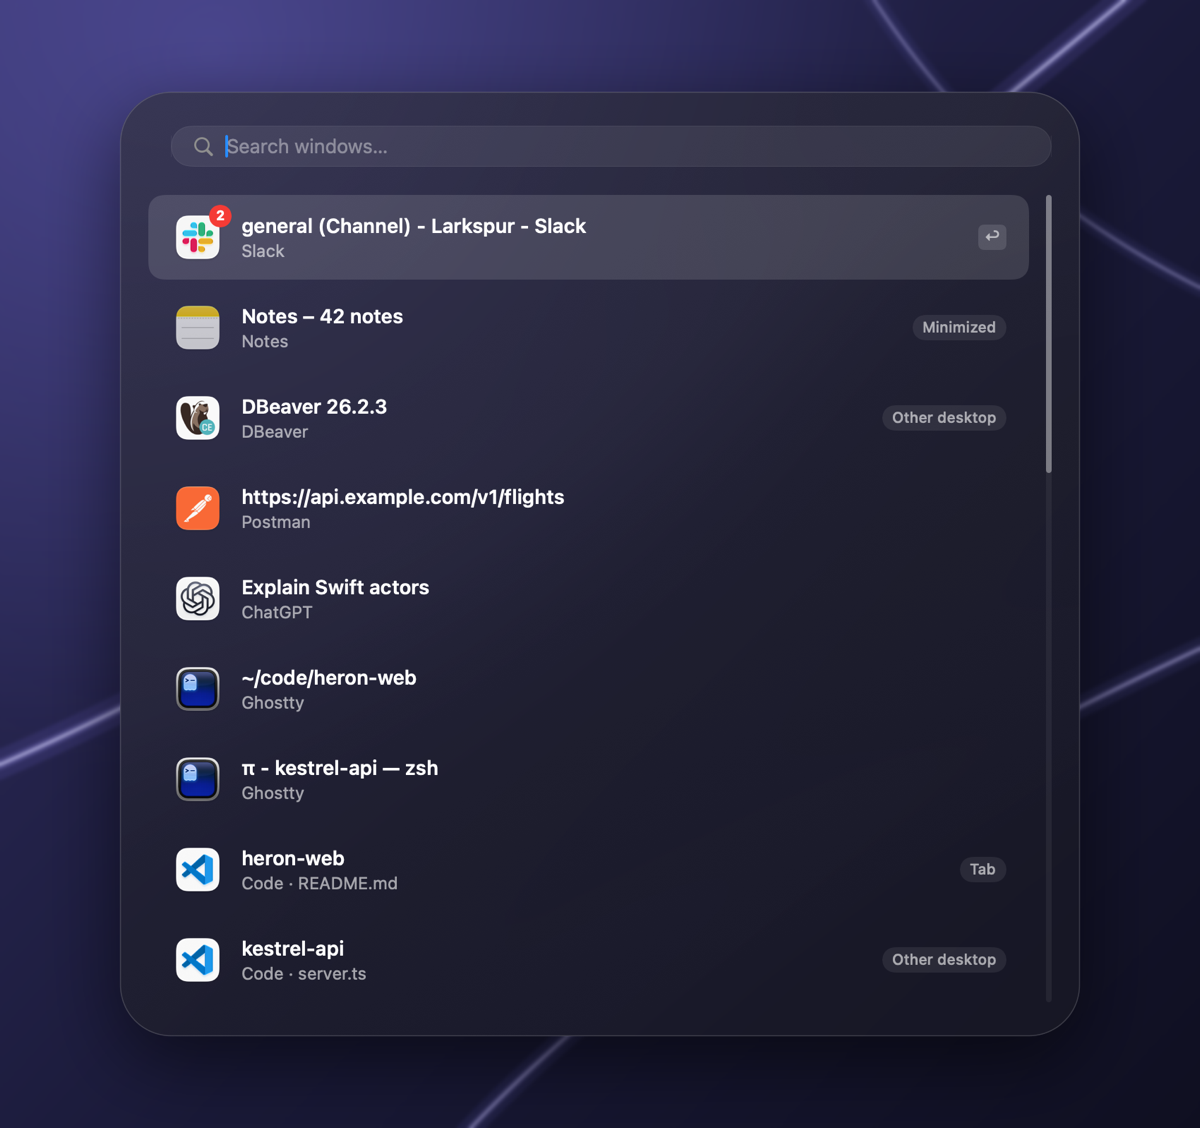
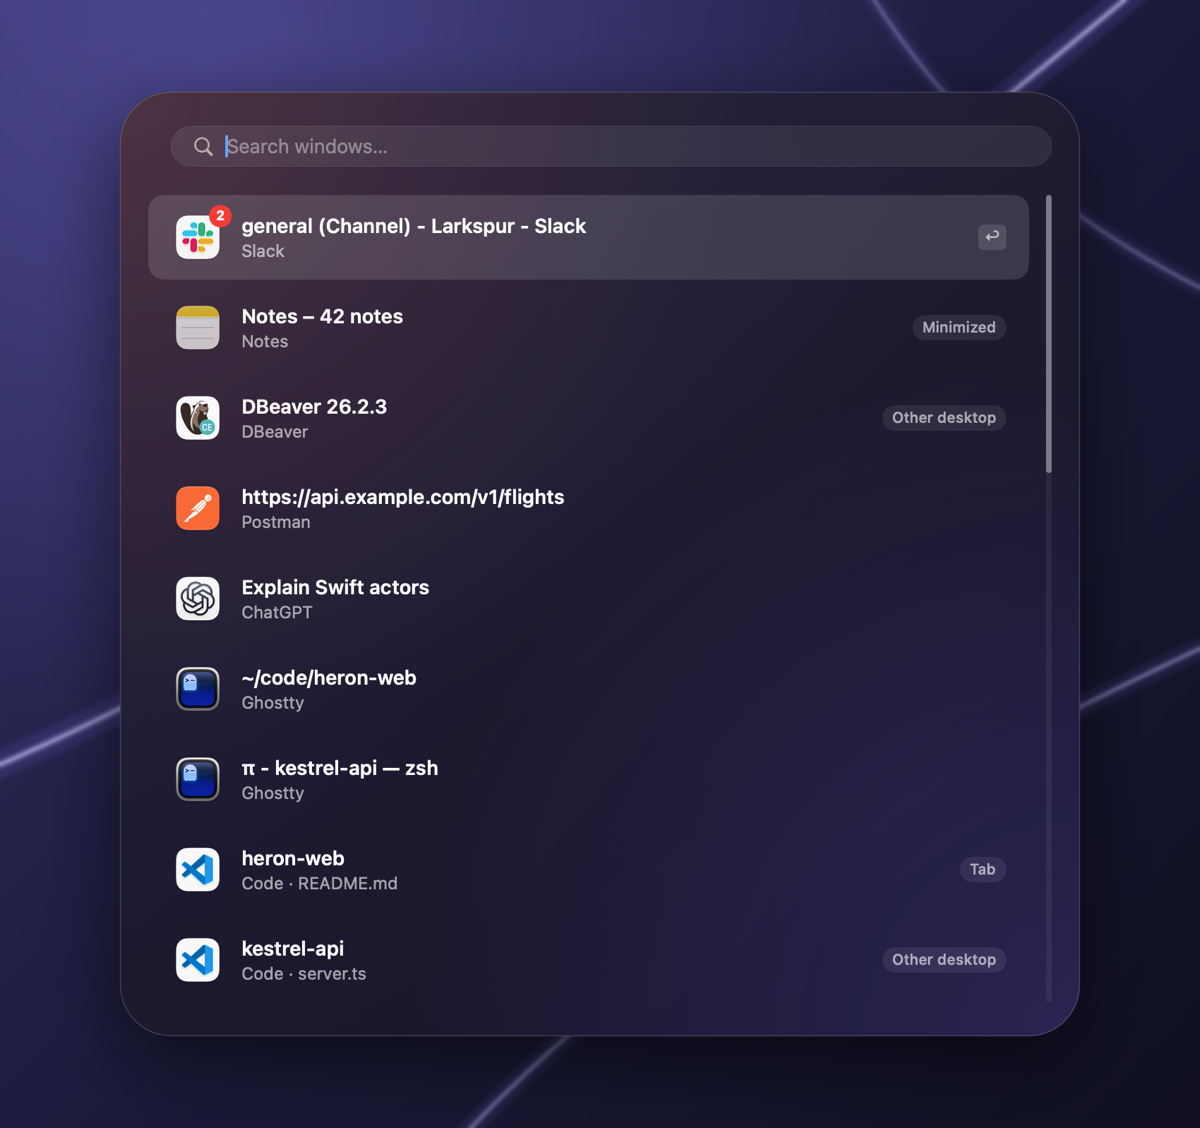
docs: bring the docs and screenshots up to date
The README, CONTRIBUTING, SECURITY, ARCHITECTURE and DESIGN docs
predated several features. They now cover the two release behaviors
(including typing while holding the modifier), Smart order, the two
themes, guided setup, hidden apps and ignored-shortcut apps, the
diagnostics report, initials search and the current modules; the
README's Settings summary lists each tab's actual controls. The README
and onboarding screenshots are regenerated from the demo windows in the
default look (Swoop theme, dark).

Changed region(s): [[0.6167, 0.6516, 0.925, 0.9309]]

diff --git a/README.md b/README.md
@@ -40,14 +40,19 @@ That's it. No tiling, no window management, no plugins.
 
 - **Goes to the window, doesn't move it.** Swoop jumps to the desktop the window lives on.
   It never pulls windows onto your current desktop, and never pulls a tab out of its group.
-- **Keyboard first.** The panel stays open after you let go of the keys. Use arrows, Tab, or
-  <kbd>⌥</kbd> <kbd>Tab</kbd> again to move, <kbd>Return</kbd> to switch, <kbd>Esc</kbd> to close.
+- **Keyboard first, your way.** By default the panel stays open after you let go of the keys: use
+  arrows, Tab, or <kbd>⌥</kbd> <kbd>Tab</kbd> again to move, <kbd>Return</kbd> to switch, <kbd>Esc</kbd>
+  to close. Prefer <kbd>⌘</kbd> <kbd>Tab</kbd> style? Choose *Switch to the selected window*: hold
+  <kbd>⌥</kbd>, tap <kbd>Tab</kbd> to move or just type to search, and let go to switch.
 - **Grid or list.** Big icons in a grid, or a list with one-line (*Compact*) or two-line
   (*Comfortable*) rows that also show if a window is a tab, minimized, or on another desktop.
   [See both lists below](#grid-or-list).
-- **Most recent first.** With an empty search, the window you used last comes first.
+- **Back in one keystroke.** With an empty search, the window you came from is already selected, so
+  <kbd>⌥</kbd> <kbd>Tab</kbd> <kbd>Return</kbd> takes you back. Prefer plain recent use, or by name?
+  Both are a setting away.
 - **Leave apps out.** Hide apps you never switch to (right-click a window → *Hide from Swoop*), and let
   games, virtual machines or remote desktops keep <kbd>⌥</kbd> <kbd>Tab</kbd> while they're in front.
+- **Two looks.** *Swoop*, a frosted brand look, or *Classic*, plain macOS. Both follow light and dark mode.
 - **Made for VS Code.** Project names are pulled out of window titles, so you can type
   `api` and see projects, not file names. Works great with `"window.nativeTabs": true`.
 - **Light.** Native Swift and AppKit. No dependencies and no polling: Swoop only wakes up when a window changes, so it sits at 0% CPU while nothing is happening.
@@ -91,12 +96,13 @@ To hear about new versions, click **Check for Updates** in Settings → Behavior
 
 ### First launch
 
-Swoop lives in the menu bar. The first time you open it, macOS asks for **Accessibility**
-access (System Settings → Privacy & Security → Accessibility). Swoop needs it to see your
-windows and bring them forward. Then press <kbd>⌥</kbd> <kbd>Tab</kbd>.
+Swoop lives in the menu bar. The first time you open it, a short setup walks you through
+**Accessibility** access (System Settings → Privacy & Security → Accessibility; Swoop needs it to
+see your windows and bring them forward), your shortcut and how it behaves, the layout, launching at
+login, and update checks. Then press <kbd>⌥</kbd> <kbd>Tab</kbd>.
 
-Turn on **Launch at login** in Settings → Behavior so Swoop is always ready. It also lets
-Swoop learn about windows as they open.
+Keep **Launch at login** on (Settings → Behavior) so Swoop is always ready. It also lets Swoop learn
+about windows as they open.
 
 ## Usage
 
@@ -107,9 +113,18 @@ Swoop learn about windows as they open.
 | Move | <kbd>←</kbd> <kbd>→</kbd> <kbd>↑</kbd> <kbd>↓</kbd>, <kbd>Tab</kbd> / <kbd>⇧</kbd> <kbd>Tab</kbd>, or <kbd>⌥</kbd> <kbd>Tab</kbd> / <kbd>⌥</kbd> <kbd>⇧</kbd> <kbd>Tab</kbd> again |
 | Switch | <kbd>Return</kbd> or click |
 | Close | <kbd>Esc</kbd> or click outside |
+| Hide an app | Right-click one of its windows → *Hide from Swoop* |
 
-**Settings** (menu-bar icon → Settings) cover the shortcut, layout (grid or list), light/dark
-appearance, icon size, number of rows, which display the panel opens on, which windows to include, apps to hide, and apps that keep the shortcut for themselves.
+**Settings** (menu-bar icon → Settings, or <kbd>⌘</kbd> <kbd>,</kbd> while the switcher is open):
+
+- **Keyboard:** the shortcut, what happens when you release it, apps that keep the shortcut for
+  themselves (games, virtual machines, remote desktops), and bare <kbd>Tab</kbd> as the shortcut.
+- **Appearance:** theme, grid or list, icon size, light/dark, rows before scrolling, which display the
+  switcher opens on, centered or where you last left it, and whether the search field is always shown.
+- **Behavior:** launch at login, closing on outside clicks, window order (Smart, Recent use, Name),
+  which windows to include (minimized, full screen, native tabs, other desktops), hidden apps, VS Code
+  project names, and update checks.
+- **Advanced:** diagnostics report and debug logging.
 
 ## What Swoop won't do
 
@@ -122,7 +137,9 @@ politely declined:
 - Browser tabs, or tabs that apps draw themselves
 - Plugins, scripting, custom themes (there are two built in: Swoop and Classic)
 
-Bug reports and anything that makes **switching** faster or more reliable are very welcome.
+Bug reports and anything that makes **switching** faster or more reliable are very welcome. Menu-bar
+icon → **Report a Problem** saves a diagnostics report (no window titles unless you allow them) to
+attach to the issue.
 
 ## How it works
 
@@ -171,7 +188,8 @@ Swoop makes no network requests without your consent. The only one it can make i
 it asks GitHub for the latest version number when you click **Check for Updates**, or daily, weekly or
 monthly if you turn on automatic checks (off by default; you can turn them on during setup or in Settings). Nothing about you or your windows is sent, and it never
 downloads or installs anything by itself. Your recent-windows history is stored in
-`~/Library/Application Support/Swoop/` and never leaves your Mac.
+`~/Library/Application Support/Swoop/` and never leaves your Mac. Diagnostics reports are saved to
+`~/Library/Logs/Swoop/` only when you ask for one, and go nowhere unless you attach them yourself.
 
 ## Build from source
 
@@ -185,9 +203,10 @@ scripts/test.sh               # unit tests (Packages/SwoopCore)
 open build/Swoop.app       # launch with `open` so macOS attributes permissions to the app
 ```
 
-README images are made from the real panel with demo windows: run a Debug build, then
-`build/swctl demo`, `build/swctl show`, `build/swctl snapshot <png> clear`, and composite with
-`Tools/make_readme_assets.swift`. Never capture your real windows: their titles end up public.
+README and onboarding images are made from the real panel with invented demo windows, in the default
+look (Swoop theme, dark): run a Debug build, then `build/swctl demo`, `build/swctl show`,
+`build/swctl snapshot <png> clear`, and composite with `Tools/make_readme_assets.swift`. Never capture
+your real windows: their titles end up public.
 
 `scripts/build.sh` signs with your first *Apple Development* certificate, so the Accessibility
 permission survives rebuilds. Without one, it signs ad hoc and macOS asks for the permission again

diff --git a/docs/ARCHITECTURE.md b/docs/ARCHITECTURE.md
@@ -211,15 +211,20 @@ Decision tree for target `T` of app `A`:
   `.popUpMenu`, `collectionBehavior = [.canJoinAllSpaces, .fullScreenAuxiliary, .transient,
   .ignoresCycle]` (applies only to *our* panel). Being non-activating, the previously active app
   stays active, so dismissing without selection leaves focus where it was.
-- Content: SwiftUI (`SwoopView` → search pill + `WindowGridView`) in an `NSHostingView` over an
-  `NSVisualEffectView` (`.hudWindow`, `.behindWindow`, rounded ~28 pt, hairline border, shadow).
-- Keyboard: local `NSEvent` monitor while key (arrows, Return, Escape, Tab); typing goes to the
-  search field, which is focused on open.
+- Content: SwiftUI (`SwoopView` → search pill + `WindowGridView`, or `WindowListView` for the Compact and
+  Comfortable lists) in an `NSHostingView` over an `NSVisualEffectView` (`.hudWindow`, `.behindWindow`,
+  rounded ~28 pt, hairline border, shadow); the Swoop theme adds a frosted brand tint. A right-click on a
+  window offers "Hide … from Swoop" (Hidden apps, skipped during discovery).
+- Keyboard: local `NSEvent` monitor while key (arrows, Return, Escape, Tab, ⌘,); typing goes to the
+  search field, which is focused on open. In *Switch to the selected window* mode, keys typed while the
+  shortcut's modifier is held add their plain character (`SwoopCore.HoldToType`), and releasing the
+  modifier (read from the current modifier state, no Input Monitoring) switches to the selection.
 - Dismissal: Escape, toggle shortcut, `resignKey`, and a global left/right-mouse-down monitor
   (mouse global monitors need no extra permission) for outside clicks.
 - Sizing: computed by `SwoopCore.GridLayout` from result count, icon size, and the target
   screen's `visibleFrame`; max width ≈ 90 % of screen, fixed max rows, scroll beyond. Shown on the
-  active display (screen with key window/mouse, configurable).
+  display with the active window, the mouse, or the primary display (setting); centered, or draggable
+  and reopened where it was left on each display.
 - Swoop's own windows left open behind other apps (Settings, About, …) would come forward when the panel
   activates Swoop: they're ordered out while it's open and put back at their exact z-position afterwards
   (above the CG window that was below them), without activating Swoop.
@@ -229,9 +234,12 @@ Decision tree for target `T` of app `A`:
 ## 6. Search (`SwoopCore.WindowSearchEngine`)
 
 Case/diacritic-insensitive. Fields: app name, window title, VS Code project, tab title. Score tiers:
-exact > prefix (field or word) > contiguous substring > fuzzy subsequence (gap/word-boundary
-weighted). VS Code project matches get a small bonus (never enough to jump a tier). Ties → recency.
-Empty query → MRU order.
+exact > prefix (field, then word) > initials (the query spells the first letters of the words, which
+also split at camelCase: `hw` → heron-web / HeronWeb; the start of the initials beats a run further in) >
+contiguous substring > fuzzy subsequence (gap/word-boundary weighted). VS Code project matches get a
+small bonus that can't lift a match two tiers. Ties and the empty query follow the *Order windows by*
+setting: Smart (most recent, with the window you're in second, so Return goes back), Recent use, or
+Name. Lists bold the matched substring, or each matched initial.
 
 ## 7. VS Code adapter (`VSCodeProjectAdapter`)
 
@@ -246,16 +254,21 @@ editor tabs inside VS Code are never enumerated (not exposed as windows).
 ```
 Packages/SwoopCore   (pure Swift, no AppKit; `swift test`)
   WindowEntry, WindowMerger, WindowSearchEngine, GridLayout/GridNavigator, RecentUsage, Shortcut,
-  VSCodeTitleParser
+  HoldToType, AppList (+ ShortcutSuspension), VSCodeTitleParser, FocusStealPolicy, RefreshScheduler,
+  RemoteRecoveryPolicy, UpdatePolicy, SupportPromptPolicy
 Swoop (app target)
-  App/        main, AppDelegate, AppController (composition root) + WorkspaceObserver, WindowControllers
+  App/        main, AppDelegate, AppController (composition root) + WorkspaceObserver, WindowControllers,
+              MainMenu, AppLinks
   Platform/   AXElement (Sendable wrapper), WindowDiscoveryService, WindowActivationService,
-              AXObserverHub, PermissionManager, GlobalShortcutManager, UpdateChecker (opt-in, §Rules)
+              AXObserverHub, PermissionManager, GlobalShortcutManager, UpdateChecker (opt-in, §Rules),
+              RemoteElements + RemoteWindowRecovery (§2a)
   Registry/   WindowRegistry (@MainActor, @Observable), RecentWindowsStore, AppSettings
-  UI/         SwoopPanelController, SwoopView (+ WindowGridView, WindowGridItemView),
+  UI/         SwoopPanelController, SwoopView (+ WindowGridView, WindowGridItemView), WindowListView,
               SearchViewModel, MenuBarController (+ LaunchAtLogin), HUDController, OnboardingView,
-              Settings/ (SettingsView, ShortcutRecorder)
-  Diagnostics/Probe (research probes), DebugCommands (DEBUG only)
+              AboutView, UpdateWindowView, UpdateStatusView, SupportPrompt, Theme/ (SwoopTheme),
+              Settings/ (SettingsView, ShortcutRecorder, AppListEditor, VisualPicker)
+  Diagnostics/DiagnosticsReport + DiagnosticsInfo + SessionStats, Probe (research probes),
+              DebugCommands, DebugActions, DebugSettings (DEBUG only)
 ```
 Space awareness is folded into `WorkspaceObserver` (`activeSpaceDidChangeNotification` → refresh →
 learned anchors); there is no separate Space service because no public Space API exists.

diff --git a/SECURITY.md b/SECURITY.md
@@ -21,12 +21,16 @@ from [Releases](https://github.com/bastienff/swoop/releases/latest).
 
 Useful context when assessing a report:
 
-- **One permission:** Accessibility. Swoop never asks for Screen Recording or Input Monitoring.
+- **One permission:** Accessibility. Swoop never asks for Screen Recording or Input Monitoring, and never
+  reads keystrokes outside its own switcher: ignoring the shortcut in chosen apps only looks at which app is
+  in front.
 - **No network without consent:** the only request Swoop can make is an update check (an anonymous GET of
   the latest release from the GitHub API), when the user clicks *Check for Updates* or, if they turned it on,
   daily, weekly or monthly. It sends nothing about the user or their windows and never downloads or installs anything.
-- **Local data only:** recent-window history in `~/Library/Application Support/Swoop/`, and settings and
-  remembered window ids in its preferences.
+- **Local data only:** recent-window history in `~/Library/Application Support/Swoop/`; settings (including
+  the hidden-app and shortcut-ignored app lists) and remembered window ids in its preferences; diagnostics
+  reports in `~/Library/Logs/Swoop/`, written only when the user asks for one (window titles left out unless
+  they allow them).
 - **Private API:** one documented, optional use of non-public Accessibility functions to rebuild window
   handles after a restart (Settings → Behavior → *Remember windows on other desktops*). It reads; it
   never moves windows.

diff --git a/CONTRIBUTING.md b/CONTRIBUTING.md
@@ -9,7 +9,7 @@ valuable thing you can send.
 - **Bugs:** open an issue with the bug form. Say which app's window misbehaved and how your desktops are set
   up (Spaces, full screen, native tabs).
 - **Features:** open a feature request first, so we can agree it fits before you write code. Out of scope:
-  window previews, tiling or snapping, managing desktops, browser tabs, plugins, themes. See
+  window previews, tiling or snapping, managing desktops, browser tabs, plugins, custom themes. See
   [What Swoop won't do](README.md#what-swoop-wont-do).
 - **Small fixes** (typos, obvious bugs): just send a pull request.
 
@@ -35,8 +35,9 @@ onboarding, load demo windows, simulate a relaunch, and more.
 
 ## How the code is organized
 
-- `Packages/SwoopCore/`: pure Swift with no AppKit: search, grid and list layout, window merging, recent
-  order, the support card schedule. **Anything that can be tested goes here, with tests** (Swift Testing).
+- `Packages/SwoopCore/`: pure Swift with no AppKit: search and ranking, grid and list layout, window
+  merging, recent order, the shortcut model and hold-to-type, app lists, update and support-card policies,
+  focus and refresh policies. **Anything that can be tested goes here, with tests** (Swift Testing).
 - `Swoop/`: the app: Accessibility, window discovery and activation, hotkey, UI.
   New files are picked up automatically (folder-synchronized Xcode project).
 

diff --git a/docs/DESIGN.md b/docs/DESIGN.md
@@ -296,7 +296,9 @@ If Accessibility is revoked later, only the permissions step reopens.
 Press shortcut → panel fades in with the previous window selected (Smart order) → type to filter (matches
 bold) → arrows / shortcut again to move → Return or click to switch → panel closes and the target is in
 front, even on another desktop. Escape or click outside closes and returns to where you were.
-*Switch on release* mode: hold the modifier, tap to move, release to switch (like ⌘Tab).
+*Switch on release* mode: hold the modifier, tap to move or type to search (letters stay plain while the
+modifier is held), release to switch (like ⌘Tab). Right-click a window → *Hide … from Swoop* to drop an app
+from the switcher (undo in Settings → Behavior → Hidden apps).
 
 ### 6.3 Customizing
 Menu bar → Settings (⌘,). Changes apply live, including the theme on the open Settings window. The window is 560 pt wide and
